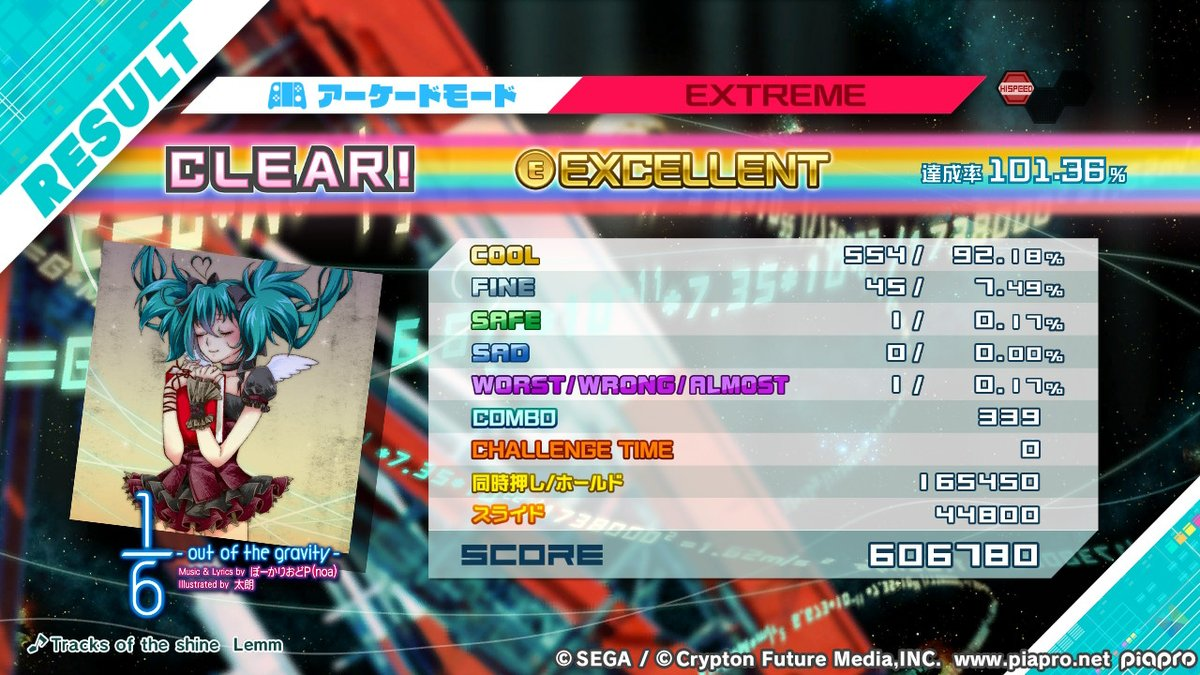
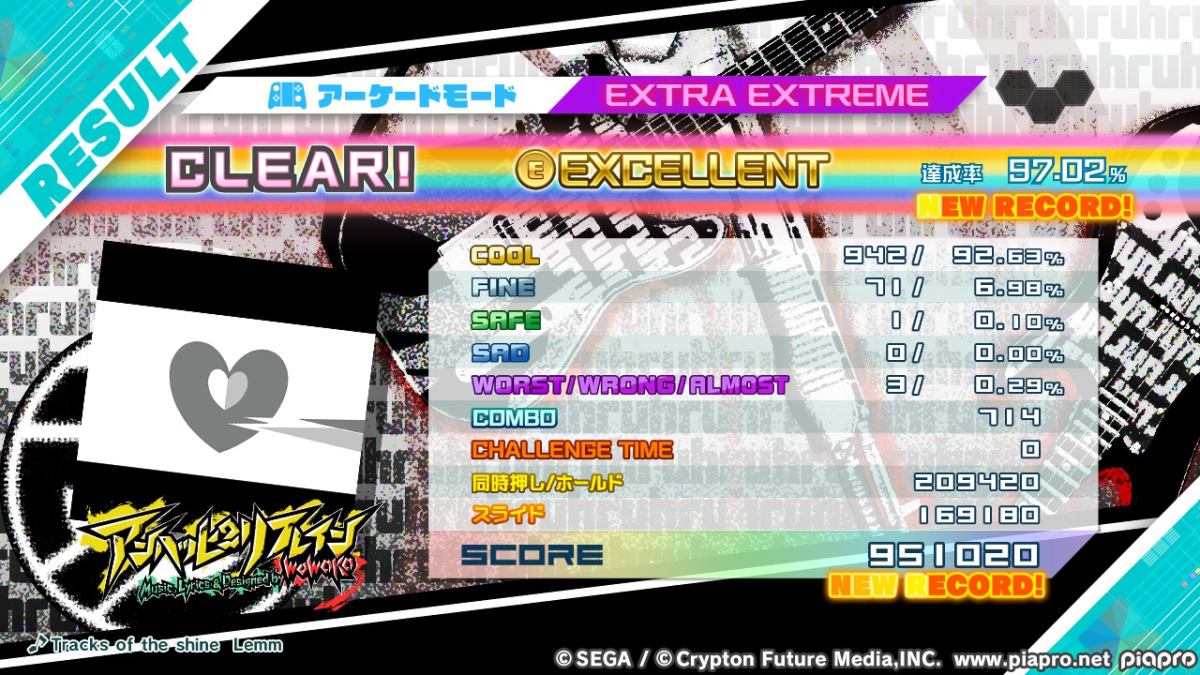
Fix issue with FT and MM song identification being swapped.

diff --git a/src/main/java/com/example/demo/DemoApplication.java b/src/main/java/com/example/demo/DemoApplication.java
@@ -100,6 +100,7 @@ public class DemoApplication {
 		RunTest("ぽっぴっぽー.jpg",350,46,7,6,3,80.39f,false,"N","",175,263630);
 		RunTest("サマーアイドル.jpg",245,19,4,0,2,87.04f,false,"E","",103,179360);
 		RunTest("アゲアゲアゲイン_alt.jpg","アゲアゲアゲイン",452,201,20,11,34,71.89f,false,"EX","",115,543240,false);
+		RunTest("test.jpg","1/6 -out of the gravity-",575,26,0,0,0,104.51f,false,"EX","HS",601,698951,false);
 		RunTest("EiMmwvJUMAEVmaT.jpg","アゲアゲアゲイン",0,0,0,0,89,0.00f,true,"E","",0,0,false);
 		//RunTest("test38.jpg","サマーアイドル",345,49,6,2,2,94.53f,false,"H","",232,347990,false);
 		//RunTest("ジターバグ_2.jpg","ジターバグ",0,0,0,0,159,0.00f,true,"EX","SD",0,0);
@@ -109,7 +110,7 @@ public class DemoApplication {
 		RunRemoteTest("http://projectdivar.com/files/img3.png","忘却心中",361,89,31,9,28,79.20f,false,"EXEX","HS",55,693650);
 		RunRemoteTest("http://projectdivar.com/files/img4.png","ロミオとシンデレラ",612,70,7,0,12,88.05f,false,"EX","HS",339,522350);
 		RunRemoteTest("http://projectdivar.com/files/img5.png","巨大少女",441,33,0,1,3,102.11f,false,"EXEX","HS",244,673260);*/
-		RunRemoteTest("http://projectdivar.com/files/146.jpg","アンハッピーリフレイン",942,71,1,0,3,97.02f,false,"EXEX","",714,951020);
+		//RunRemoteTest("http://projectdivar.com/files/146.jpg","アンハッピーリフレイン",942,71,1,0,3,97.02f,false,"EXEX","",714,951020);
 		System.out.println("All Tests passed!");
 	}
 
@@ -188,6 +189,7 @@ public class DemoApplication {
 		}
 		Assert.isTrue(f.exists(),"Expected file to exist: "+f.getAbsoluteFile());
 		img = ImageIO.read(f);
+		img = Controller.CropFutureToneImage(img);
 		Result r = typeface1.getAllData(img,debug);
 		if (img.getWidth()!=1200) {
         	//Resize.

diff --git a/src/main/java/com/example/demo/Controller.java b/src/main/java/com/example/demo/Controller.java
@@ -231,7 +231,10 @@ public class Controller {
 			}
 			img = img.getSubimage(crop2.x, crop1.y, crop1.x-crop2.x, crop2.y-crop1.y);
 			//ImageIO.write(img,"png",new File("test.png"));
+		} else {
+			MyRobot.FUTURETONE=false;
 		}
+		//System.out.println("Future Tone? "+MyRobot.FUTURETONE);
 		return img;
 	}
 	
@@ -241,7 +244,7 @@ public class Controller {
 		SongData matchingSong = null;
 		//There are 2304 pixels total. Once 2188 match, we'll call it good.
 		if (MyRobot.FUTURETONE) {
-			for (SongData song : DemoApplication.songs) {
+			for (SongData song : DemoApplication.FTsongs) {
 				float matching = 0;
 				for (int y=0;y<288;y++) {
 					for (int x=0;x<8;x++) {
@@ -264,7 +267,7 @@ public class Controller {
 	            
 			}
 		} else {
-			for (SongData song : DemoApplication.FTsongs) {
+			for (SongData song : DemoApplication.songs) {
 				float matching = 0;
 				for (int y=0;y<288;y++) {
 					for (int x=0;x<8;x++) {
